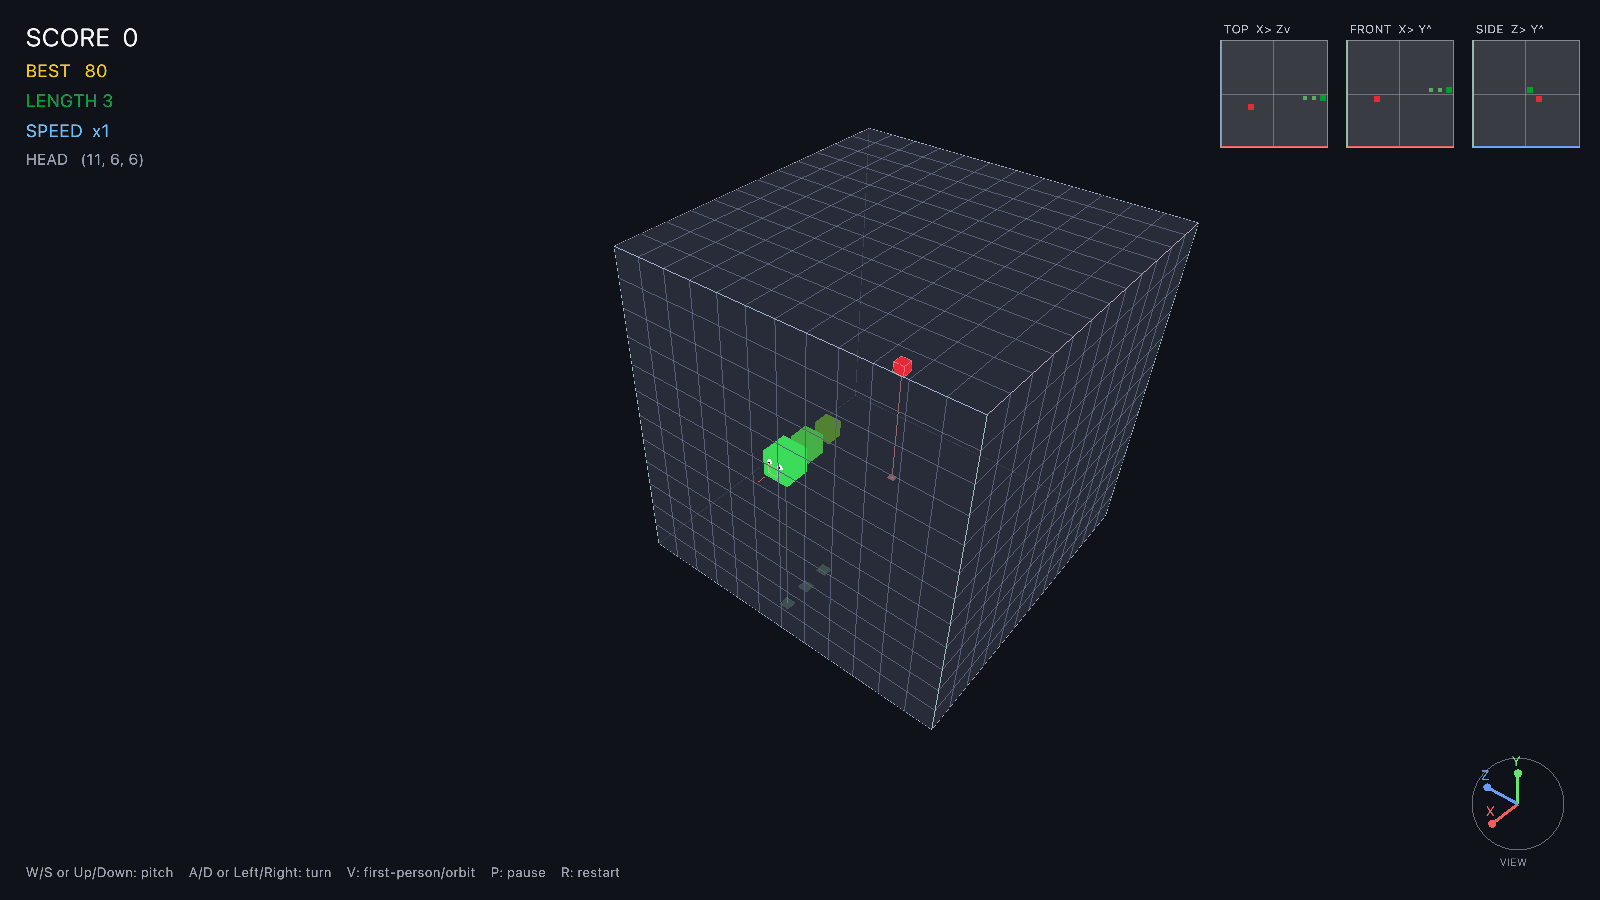
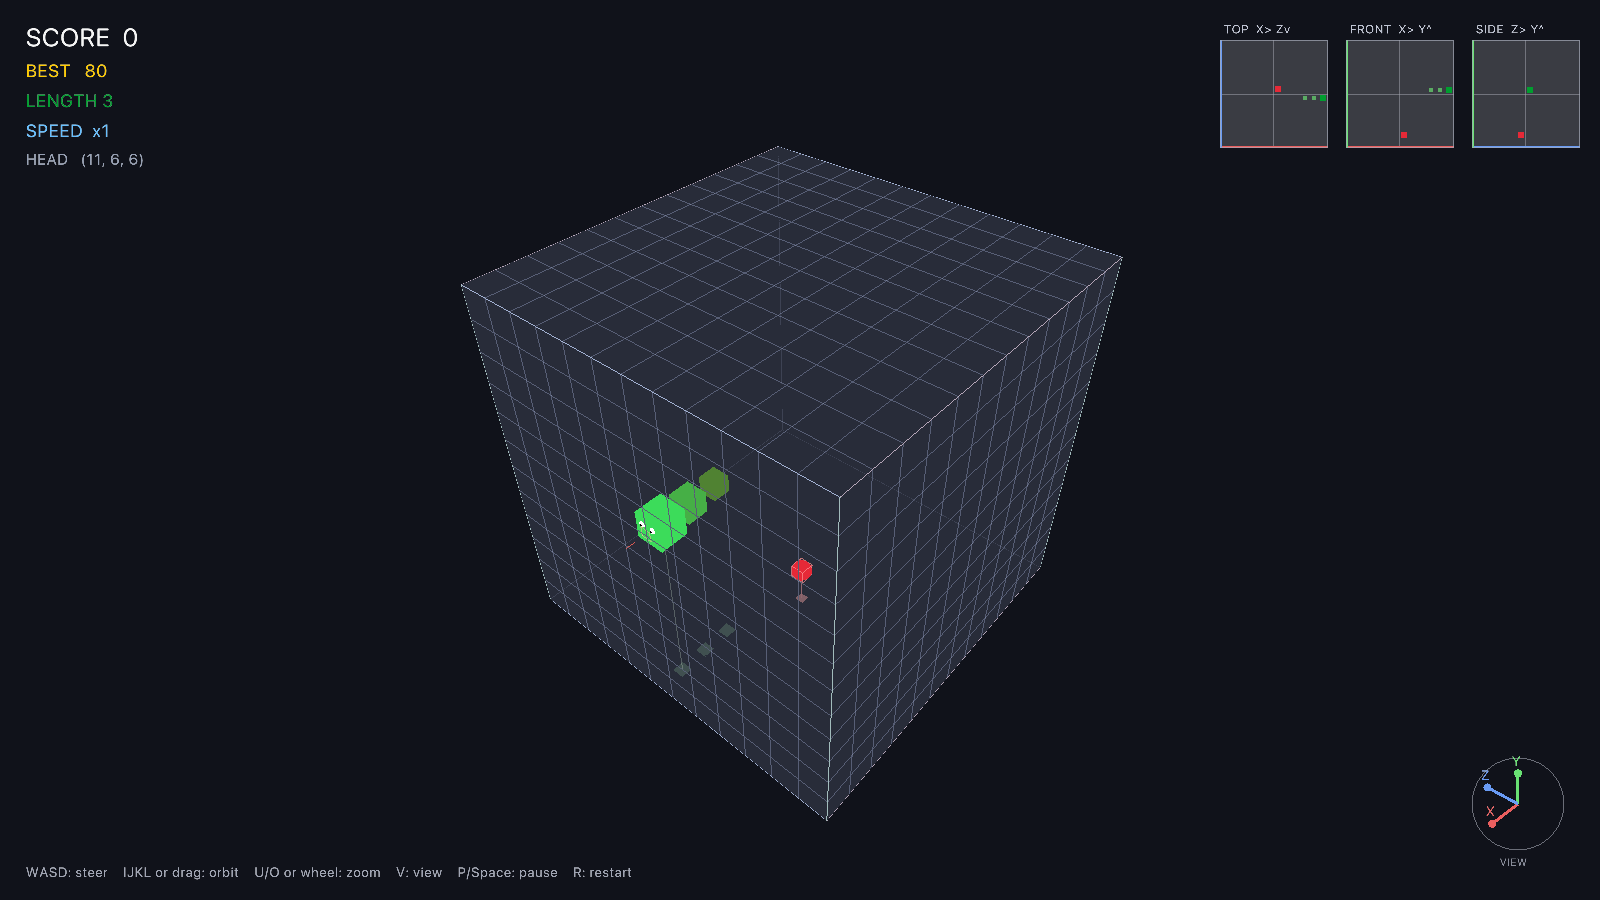
v1.1.0: screen-relative steering, cube-centric orbit, keyboard camera
- Orbit view: A/D/W/S now steer relative to the screen (was snake-relative,
  felt inverted when the snake flew toward the camera)
- Orbit camera pivots on the cube center: the whole cube rotates as one
  rigid object; full pitch range (nearly +/-90 deg)
- Keyboard camera control: J/L rotate, I/K tilt, U/O zoom (mouse drag and
  wheel still work); left mouse button also orbits
- Space pauses/resumes (in addition to P); camera and V keep working
  while paused so you can inspect the cube and plan
- Snake waits for the first steering input instead of auto-launching

Changed region(s): [[0.2812, 0.1244, 0.75, 0.9022], [0.0312, 0.9644, 0.375, 0.9956]]

diff --git a/README.md b/README.md
@@ -9,28 +9,33 @@ no gravity, no floor, pure 3D piloting.
 ## Features
 
 - **True 3D movement** — six directions (±X, ±Y, ±Z) inside a 12³ cube
-- **Panoramic orbit camera** by default (right-drag to orbit, wheel to zoom),
-  with an optional **first-person view** (press `V`)
+- **Panoramic orbit camera** by default: the whole cube rotates around its
+  center as one rigid object (keyboard `IJKL` or mouse drag), with an
+  optional **first-person view** (press `V`)
+- **Screen-relative steering** — in orbit view `A/D/W/S` always mean
+  screen-left/right/up/down, no matter how the cube is rotated
 - **Flight-path guide** — a dotted line ahead of the snake shows where flying
   straight leads, colored green → yellow → red by distance to the obstacle
 - **Navigation aids** — tri-view minimap (top / front / side projections),
   a camera-linked axis compass, and cube edges color-coded by axis
   (X = red, Y = green, Z = blue)
-- Plane-like relative steering: the snake waits for your first input
+- Pause anytime and keep orbiting the frozen cube to plan your route
 - Smooth interpolated movement and 90° turn animations, particles,
-  procedurally synthesized sound effects (no asset files), pause/restart,
+  procedurally synthesized sound effects (no asset files),
   persistent best score
 
 ## Controls
 
 | Input | Action |
 |---|---|
-| `A` / `D` or `←` / `→` | Turn left / right |
-| `W` / `S` or `↑` / `↓` | Pitch up / down |
+| `A` / `D` or `←` / `→` | Steer screen-left / screen-right |
+| `W` / `S` or `↑` / `↓` | Steer screen-up / screen-down |
+| `J` / `L` | Rotate the cube |
+| `I` / `K` | Tilt the cube |
+| `U` / `O` or mouse wheel | Zoom in / out |
+| Mouse drag (left or right) | Orbit (alternative) |
 | `V` | Toggle first-person / orbit camera |
-| Right mouse drag | Orbit camera (orbit mode) |
-| Mouse wheel | Zoom |
-| `P` | Pause |
+| `P` or `Space` | Pause / resume |
 | `R` | Restart |
 | `Space` / `Enter` | Start / play again |
 
